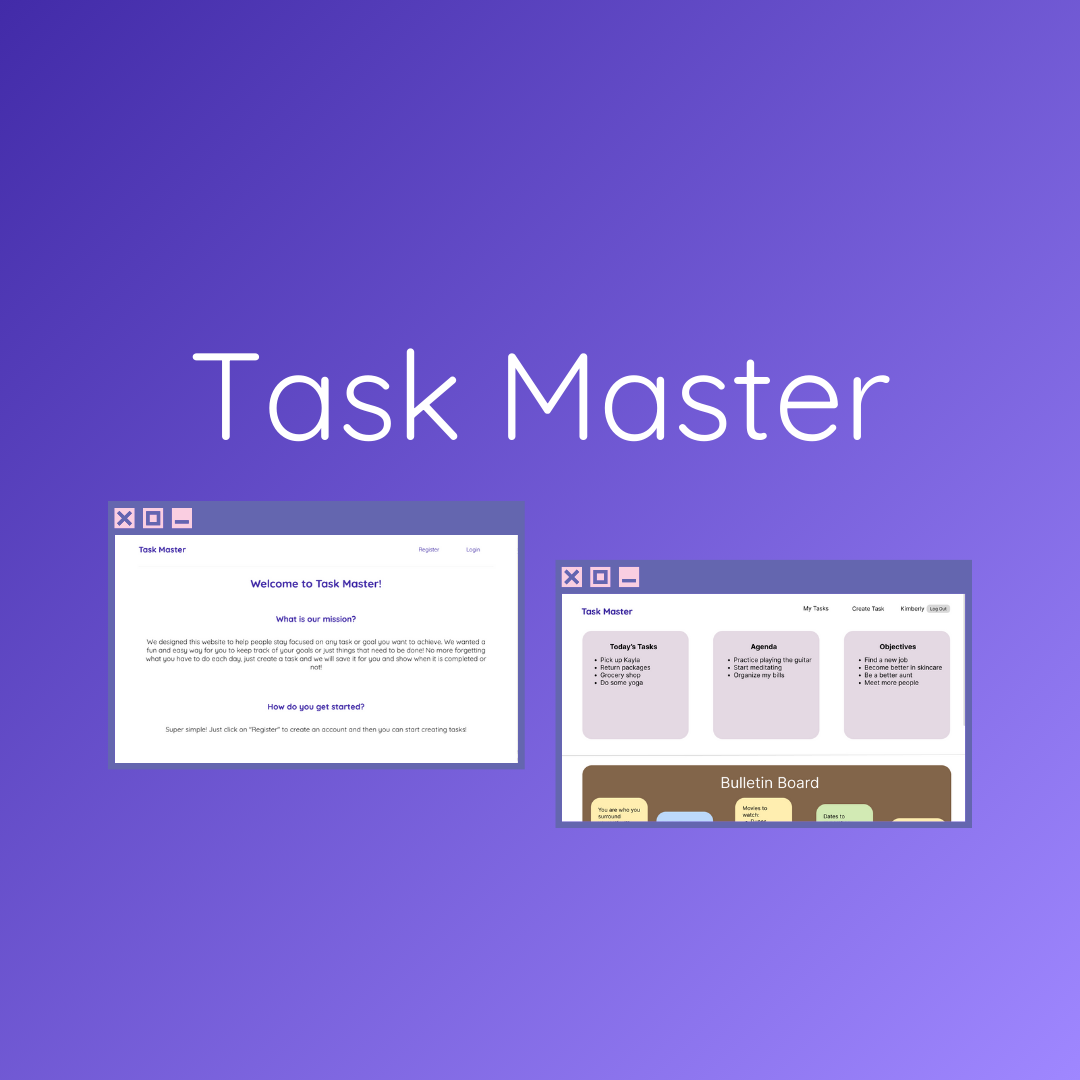
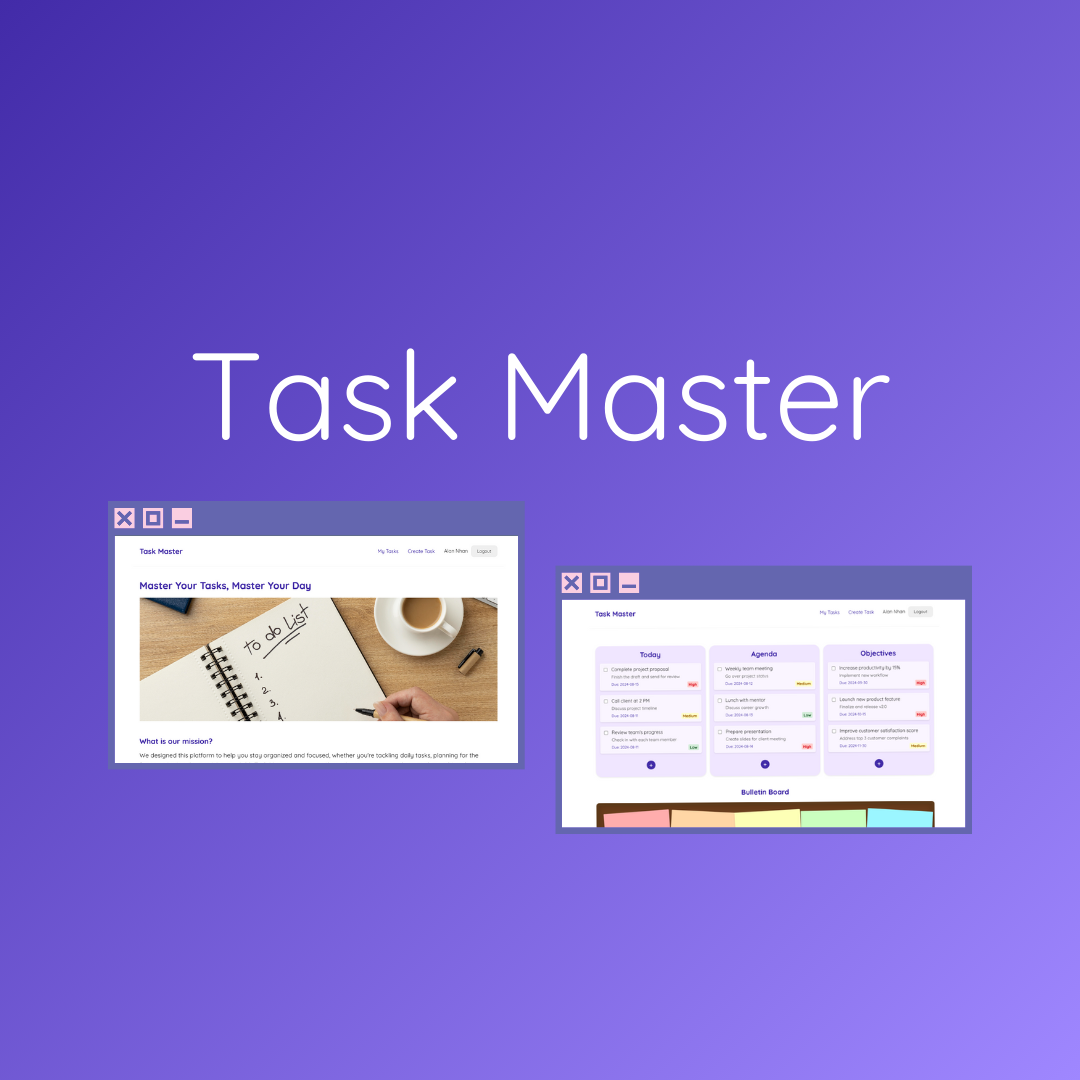
Completed todo case study

Changed region(s): [[0.5194, 0.5194, 0.9167, 0.7944], [0.1222, 0.4889, 0.4889, 0.7028], [0.3972, 0.4889, 0.4583, 0.5194]]

diff --git a/src/project.js b/src/project.js
@@ -75,20 +75,52 @@ export const projects = [
     duration: 'Apr 2023 - Jun 2023',
     technologies: ['React', 'Node.js', 'Express', 'PostgreSQL', 'MongoDB', 'HTML', 'CSS'],
     codeLink: 'https://github.com/nhvn/to-do-list',
-    contribution: 'Built a secure PostgreSQL database from scratch and developed a robust API using Node.js and Express \n Created an intuitive user interface using React, integrating it with the back-end for seamless functionality',
+    contribution: 'Built a secure PostgreSQL database from scratch and developed a robust API using Node.js and Express \n Created an intuitive user interface using React, integrating it with the back-end for seamless functionality \n Enhanced user experience with task completion tracking and responsive design elements \n Implemented "Today," "Agenda," and "Objectives" boxes, along with a "Bulletin Board" for quick note-taking',
     team: 'Two other software engineers',
     image: '/img/todo.png',
-    sect1: 'Sketches',
-    sect1content: 'In the initial design phase, I focused on creating intuitive and user-friendly interfaces. I sketched various layouts, considering factors like usability and aesthetic appeal. The goal was to create a design that would provide a seamless user experience while maintaining a clean and modern look.',
-    sect1img1: '/img/todoSketch.png',
-    sect2: 'Methodology',
-    sect2content: "My approach was iterative and user-centric. I started with low-fidelity wireframes, gradually refining them based on user feedback and usability testing. I also considered the latest design trends and best practices, ensuring the design was both contemporary and intuitive. To enhance user productivity and organization, I incorporated dedicated sections for Today's Task, Agenda, and Objectives. The Today's Task section allows users to quickly view and prioritize their tasks for the day, while the Agenda section provides an overview of upcoming deadlines and events. The Objectives section allows users to set and track long-term goals, breaking them down into manageable tasks. Additionally, I included a versatile Bulletin Board feature, which functions as a digital cork board. Users can create and customize virtual sticky notes, enabling them to jot down reminders, ideas, or any other information they need to keep track of. The Bulletin Board seamlessly integrates with the to-do list, allowing users to effortlessly transform their notes into actionable tasks. This feature aims to provide a comprehensive workspace, fostering organization and productivity while catering to individual preferences and working styles.",
-    sect3: 'Results',
-    sect3content: 'The final design effectively balanced functionality and aesthetics. It provided users with a clear and easy-to-navigate interface, improving task management efficiency. The design was well-received by users, demonstrating the effectiveness of the user-centric design approach.',
-    sect3img1: '/img/todoResult.png',
-    sect3img2: '/img/todoResult2.png',
-    sect4: 'Final Thoughts',
-    sect4content: "Working on the Task Master project was a rewarding experience that allowed me to apply my full-stack development skills to create a practical and user-friendly application. Through an iterative and user-centric design process, I was able to develop an intuitive interface that seamlessly combines essential features like to-do lists, agendas, objectives, and a versatile bulletin board. The integration of these functionalities aimed to provide users with a comprehensive workspace that fosters productivity, organization, and customization. Throughout the project, I valued collaboration with my team members, leveraging our collective expertise to overcome challenges and deliver a polished final product. Overall, this project reinforced the importance of user-centered design, agile development methodologies, and attention to detail in creating effective software solutions that meet real-world needs.",
+    sect1: 'Intro',
+    sect1content: "Task Master is a user-friendly task management tool designed to help individuals stay organized and achieve their goals. Whether you're planning your day, setting long-term objectives, or capturing quick notes, Task Master provides a seamless way to keep track of everything that matters. Our intuitive interface and robust features make it easier than ever to manage your tasks efficiently, so you can focus on what truly counts.",
+    sect2: 'Problem',
+    sect2content: "Managing tasks and responsibilities can be overwhelming, often leading to missed deadlines and forgotten goals. Traditional methods like sticky notes and complex apps add confusion, making it hard to stay organized.",
+    sect3: 'Solution',
+    sect3content: 'Task Master simplifies task management with intuitive features like "Today," "Agenda," and "Objectives" boxes, along with a "Bulletin Board" for quick notes. It helps users stay focused, achieve their goals, and manage their day efficiently.',
+    sect4: 'Early Concepts',
+    sect4content: "In the early stages of developing Task Master, the focus was on creating a simple yet powerful tool to help users manage their daily tasks and long-term goals. The initial concept centered around an interface that would be easy to navigate, with features that allow users to quickly organize and track their tasks. The goal was to strike a balance between functionality and simplicity, ensuring that users could manage their responsibilities without feeling overwhelmed by the app itself.",
+    sect4sub1: 'Early Ideation',
+    sect4sub1content: 'During the ideation phase, various ideas were explored to determine the best way to present tasks and goals. Concepts like the "Today," "Agenda," and "Objectives" boxes emerged from the desire to categorize tasks by priority and time frame. The "Bulletin Board" feature was also conceptualized as a space for users to jot down random notes or reminders. Early sketches were made to visualize these features and to experiment with different layouts and user flows, ensuring that the app would be both intuitive and effective.',
+    sect4sub1img1: '/img/todoSketch.png',
+    sect4sub2: 'Digital Wireframe',
+    sect4sub2content: 'The transition from sketches to digital wireframes allowed for a more refined visualization of the app’s structure. By creating digital wireframes, we were able to test and iterate on the design, ensuring that the layout was optimized for user experience before moving into the full development phase.',
+    sect4sub2img1: '/img/todoWireframe.png',
+    sect5: 'Design Development',
+    sect5content: 'As Task Master moved from concept to reality, the focus shifted to refining the design and ensuring that the app met user needs. The design development phase involved turning wireframes into detailed prototypes and continuously improving the interface based on feedback and testing.',
+    sect5sub1: 'Prototyping',
+    sect5sub1content: 'Using Figma, high-fidelity prototypes were created to bring the design to life. These prototypes allowed for a closer look at the user interface, including the functionality of the "Today," "Agenda," and "Objectives" boxes, as well as the "Bulletin Board." Prototyping helped visualize the user experience, making it easier to identify and address any usability issues early on.',
+    sect5sub1img1: '/img/todoPrototype.png',
+    sect5sub2: 'Iterative Design',
+    sect5sub2content: 'The design was refined through several iterations, incorporating user feedback and testing results. Adjustments were made to enhance the user experience, such as optimizing the layout, improving task tracking features, and ensuring responsive design across devices. This iterative process ensured that the final design was both user-friendly and effective.',
+    sect6: 'Final Designs',
+    sect6content: 'Showcases the completed design elements and user interface of Task Master, highlighting the final look and functionality of the app.',
+    sect6sub1: 'Home Page',
+    sect6sub1img1: '/img/todoHome.png',
+    sect6sub2: 'Dashboard',
+    sect6sub2img1: '/img/todoDashboard.png',
+    sect6sub2img2: '/img/todoBoxes.png',
+    sect6sub2img3: '/img/todoBullet.png',
+    sect7: 'Future Steps',
+    sect7sub1: 'Potential Plans',
+    sect7sub1content:<ul>
+    <li>Integrate advanced analytics for tracking task completion patterns.</li>
+    <li>Add collaborative features for team-based task management.</li>
+    <li>Incorporate AI to provide personalized task recommendations.</li>
+    <li>Explore mobile app development to reach a broader audience.</li>
+    <li>Expand functionality to support additional languages.</li>
+  </ul>,
+    sect7sub2: 'Final Thoughts',
+    sect7sub2content: "Task Master has effectively addressed core task management needs, but there's always room for growth. Reflecting on the development process, I've gained valuable insights into user-centered design and feature development. The experience has taught me the importance of iterative design and responsiveness to user feedback. Moving forward, I plan to refine features based on user input and stay adaptable to emerging technologies, continually enhancing both user experience and functionality.",
+
+
+
   },
   {
     id: 'oldPortfolio',
